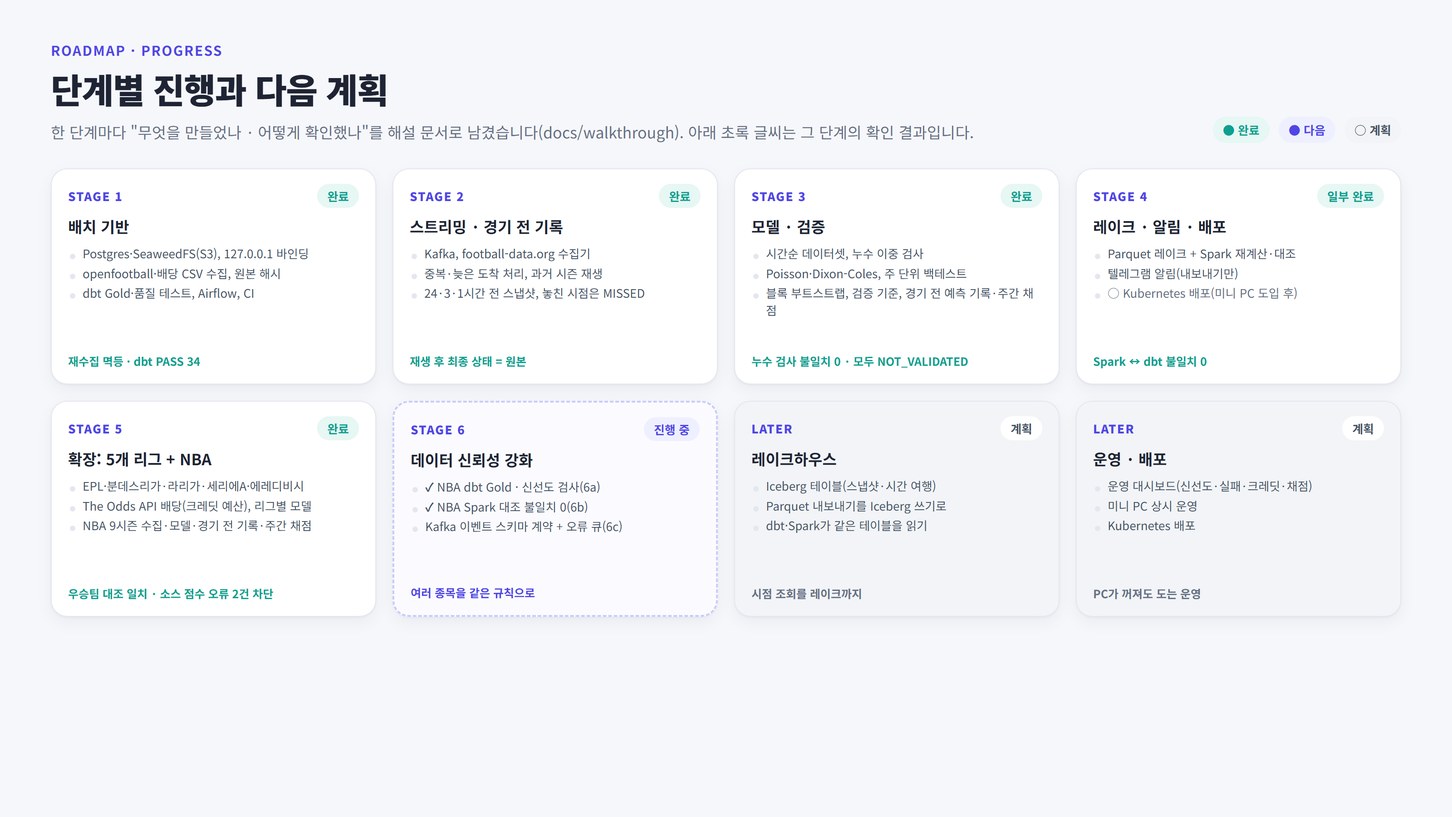
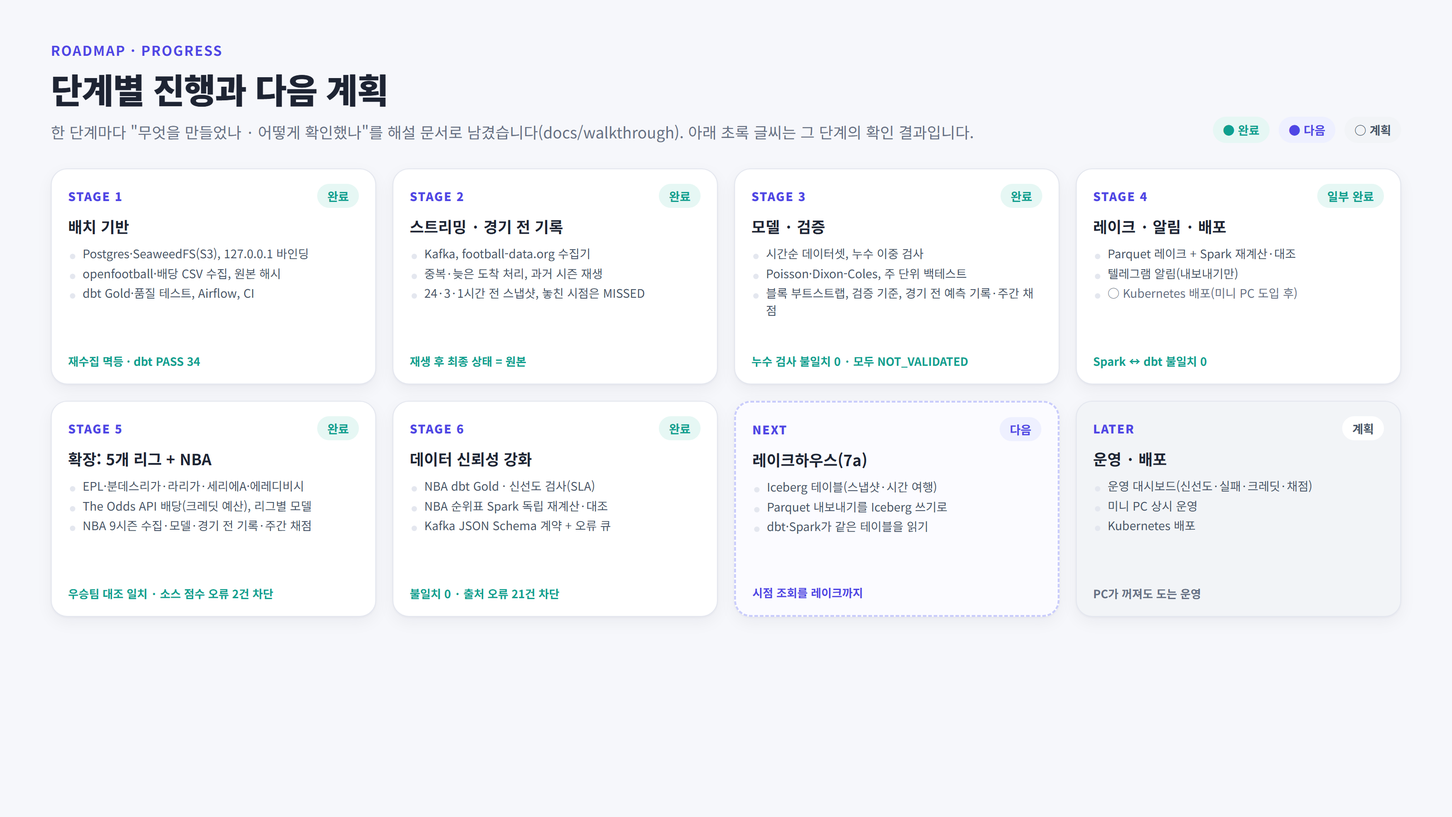
6c 해설, 면접 문서·그림 갱신

diff --git a/docs/diagrams/01_overview.html b/docs/diagrams/01_overview.html
@@ -68,12 +68,12 @@
       <div class="card tech">
         <div class="tech-row"><div class="name">SeaweedFS (S3)<span>Bronze · 원본</span></div><div class="why">받은 원본을 <b>내용 해시 경로</b>로 바이트 그대로 보존 → 언제든 다시 처리. 표준 S3 API(boto3)</div></div>
         <div class="tech-row"><div class="name">PostgreSQL<span>Silver · 버전</span></div><div class="why">버전 테이블 + 트리거로 <b>수정·삭제를 DB가 차단</b>, <span class="code">*_known_at(as_of)</span> 함수로 그때의 데이터를 조회</div></div>
-        <div class="tech-row"><div class="name">Kafka<span>스트리밍</span></div><div class="why">경기 갱신은 원래 <b>시간순 이벤트</b>. 중복·늦은 도착을 거르고 과거 시즌을 재생해 검증</div></div>
+        <div class="tech-row"><div class="name">Kafka<span>스트리밍</span></div><div class="why">경기 갱신은 원래 <b>시간순 이벤트</b>. JSON Schema 계약으로 깨진 메시지는 오류 큐로, 중복·늦은 도착을 거르고 과거 시즌을 재생해 검증</div></div>
         <div class="tech-row"><div class="name">dbt<span>Gold · 품질 테스트</span></div><div class="why">순위표·시점 특징·배당 확률을 코드로 정의, <b>품질 테스트 38개</b>, 과거 기준 시각으로 재계산</div></div>
         <div class="tech-row"><div class="name">Spark · Parquet<span>레이크 · 대조</span></div><div class="why">Gold를 Parquet 레이크로 내보내고 Spark로 <b>독립 재계산해 dbt와 행 단위 대조</b>(불일치 0)</div></div>
         <div class="tech-row"><div class="name">Airflow<span>오케스트레이션</span></div><div class="why">매일 수집·변환, <b>30분마다 경기 전 스냅샷</b>, 주간 채점, 실패 알림. API 크레딧 예산 안에서</div></div>
         <div class="tech-row"><div class="name">numpy<span>모델 · 평가</span></div><div class="why">Poisson·Dixon-Coles·점수 차 등급·Elo, <b>시간순 백테스트 + 블록 부트스트랩</b> 검증 기준</div></div>
-        <div class="tech-row"><div class="name">Docker · CI<span>재현 · 검증</span></div><div class="why">Compose로 전체 스택 재현, GitHub Actions에서 <b>테스트 202개 + Spark + dbt</b></div></div>
+        <div class="tech-row"><div class="name">Docker · CI<span>재현 · 검증</span></div><div class="why">Compose로 전체 스택 재현, GitHub Actions에서 <b>테스트 215개 + Spark + dbt</b></div></div>
       </div>
     </div>
 
@@ -85,7 +85,7 @@
           <div class="num"><b>23,693</b><span>경기(축구 12,264 · NBA 11,429)</span></div>
           <div class="num"><b>17.8만</b><span>배당 버전(해외 북메이커)</span></div>
           <div class="num"><b>60만</b><span>시간순 백테스트 예측</span></div>
-          <div class="num"><b>202</b><span>자동 테스트(CI 포함)</span></div>
+          <div class="num"><b>215</b><span>자동 테스트(CI 포함)</span></div>
         </div>
         <div class="item"><b>정직한 결론</b><span>모델은 단순 비율보다 확실히 낫지만 시장 배당은 못 이김 → 모두 NOT_VALIDATED, 확률 비공개(WITHHELD)</span></div>
         <div class="item"><b>매주 자동으로</b><span>경기 전에 얼린 예측을 같은 시점의 시장 확률과 나란히 채점, 텔레그램으로 요약</span></div>

diff --git a/docs/diagrams/04_roadmap.html b/docs/diagrams/04_roadmap.html
@@ -60,15 +60,15 @@
       <ul><li>EPL·분데스리가·라리가·세리에A·에레디비시</li><li>The Odds API 배당(크레딧 예산), 리그별 모델</li><li>NBA 9시즌 수집·모델·경기 전 기록·주간 채점</li></ul>
       <div class="proof">우승팀 대조 일치 · 소스 점수 오류 2건 차단</div>
     </div>
-    <div class="card stage next">
-      <div class="top"><span class="no">STAGE 6</span><span class="chip next">진행 중</span></div>
+    <div class="card stage">
+      <div class="top"><span class="no">STAGE 6</span><span class="chip done">완료</span></div>
       <h3>데이터 신뢰성 강화</h3>
-      <ul><li><b>✓</b> NBA dbt Gold · 신선도 검사(6a)</li><li><b>✓</b> NBA Spark 대조 불일치 0(6b)</li><li>Kafka 이벤트 스키마 계약 + 오류 큐(6c)</li></ul>
-      <div class="proof">여러 종목을 같은 규칙으로</div>
+      <ul><li>NBA dbt Gold · 신선도 검사(SLA)</li><li>NBA 순위표 Spark 독립 재계산·대조</li><li>Kafka JSON Schema 계약 + 오류 큐</li></ul>
+      <div class="proof">불일치 0 · 출처 오류 21건 차단</div>
     </div>
-    <div class="card stage plan">
-      <div class="top"><span class="no">LATER</span><span class="chip">계획</span></div>
-      <h3>레이크하우스</h3>
+    <div class="card stage next">
+      <div class="top"><span class="no">NEXT</span><span class="chip next">다음</span></div>
+      <h3>레이크하우스(7a)</h3>
       <ul><li>Iceberg 테이블(스냅샷·시간 여행)</li><li>Parquet 내보내기를 Iceberg 쓰기로</li><li>dbt·Spark가 같은 테이블을 읽기</li></ul>
       <div class="proof">시점 조회를 레이크까지</div>
     </div>

diff --git a/docs/diagrams/02_data_flow.html b/docs/diagrams/02_data_flow.html
@@ -54,7 +54,7 @@
     <div class="col">
       <div class="label">Ingest</div>
       <div class="card box"><h3>배치 수집기</h3><p>요청 한도·429·크레딧, 키는 오류 메시지에서 제거</p></div>
-      <div class="card box"><h3>Kafka</h3><p>경기 갱신 이벤트, 중복·늦은 도착 거부, 과거 시즌 재생</p></div>
+      <div class="card box"><h3>Kafka</h3><p>경기 갱신 이벤트, JSON Schema 계약 검사(위반은 오류 큐), 중복·늦은 도착 거부, 과거 시즌 재생</p></div>
       <div class="card box"><h3>품질 검사</h3><p>대조표로만 팀 연결, 문제는 버리지 않고 기록</p><span class="n">팀 별칭 461개</span></div>
     </div>
     <div class="col">
@@ -83,7 +83,7 @@
 
   <div class="bars">
     <div class="card bar"><div class="em">⚙</div><div><b>Airflow DAG 4개</b><span>매일 축구 수집 → dbt → Spark 대조 · 매일 NBA 수집 · 30분마다 배당·스냅샷·알림 · 매주 채점</span></div></div>
-    <div class="card bar"><div class="em">🐳</div><div><b>Docker Compose + GitHub Actions</b><span>모든 포트 127.0.0.1 · 푸시마다 테스트 202개, Spark 컨테이너 테스트, 수집→dbt 종단 실행</span></div></div>
+    <div class="card bar"><div class="em">🐳</div><div><b>Docker Compose + GitHub Actions</b><span>모든 포트 127.0.0.1 · 푸시마다 테스트 215개, Spark 컨테이너 테스트, 수집→dbt 종단 실행</span></div></div>
   </div>
   <div class="rule"><span>모든 시각은 UTC로 저장, 화면은 한국 시각</span><span>키·비밀번호는 .env에만(Git 제외)</span><span>검증 전 모델의 확률은 보여 주지 않음</span></div>
 </body>

diff --git a/docs/walkthrough/6c_kafka_contracts.md b/docs/walkthrough/6c_kafka_contracts.md
@@ -1,0 +1,90 @@
+# 6c. Kafka 이벤트 스키마 계약과 오류 큐(dead letter)
+
+작성: 2026-10-24. 상태: **완료.** 6단계(데이터 신뢰성 강화)의 마지막 단계입니다.
+
+## 한 줄 요약
+
+Kafka로 오가는 경기 이벤트의 모양을 **JSON Schema 파일로 계약**했습니다. 생산자(football-data.org 수집기)는 보내기 전에, 소비자는 받은 뒤에 **같은 파일로** 검사합니다. 계약을 어긴 메시지는 Silver에 들어가지 않고, 사유를 남긴 뒤 원본 바이트 그대로 **오류 큐(`<토픽>.dlq`)**로 옮깁니다. 팀 대조표에 없어서 거부된 메시지는 대조표를 고친 뒤 오류 큐에서 다시 보낼 수 있습니다.
+
+계약을 만들고 실제 Bronze 원본 29,428경기에 돌려 보자 **football-data.org가 상태 칸에 날짜를 보낸 경기 21건**이 나왔습니다. 그중 6건은 이미 그 값 그대로 Silver에 들어가 있었습니다. 이제는 들어오는 길에서 막힙니다.
+
+## 흐름
+
+```text
+football-data.org 수집기
+  └ 경기마다 이벤트 생성 → contracts.check(생산자 쪽)
+        ├ 통과 → fdorg.matches.v1
+        └ 위반 → 보내지 않음, silver.quality_issues(CONTRACT_VIOLATION, 경로·사유)
+
+match_consumer (묶음 하나 = DB 트랜잭션 하나)
+  └ events.decode → contracts.check(소비자 쪽: 다른 생산자·재생기·사람이 넣은 메시지도 검사)
+        ├ 통과 → 팀 대조 → Silver 버전(중복·늦은 도착 규칙은 그대로)
+        └ 위반·UNMAPPED_TEAM → silver.stream_rejections + 원본을 fdorg.matches.v1.dlq로(헤더에 사유·원래 위치·detail)
+  └ 오류 큐 flush 확인 → DB 커밋 → 오프셋 커밋
+
+python -m pipelines.streaming.dlq summary   사유별 건수·예(원래 위치가 같으면 한 건)
+python -m pipelines.streaming.dlq replay    대조표를 고친 뒤 UNMAPPED_TEAM 원본을 원래 토픽으로 다시
+```
+
+## 계약 내용
+
+| 파일 | 규칙 | 바꿀 때 |
+|---|---|---|
+| `schemas/envelope.v1.json`(겉봉투) | 8개 필드 필수, 모르는 필드 거부, `event_id`는 64자리 16진수, 시각은 **시간대가 있는** ISO 8601만 | 필드를 더하거나 빼면 `schema_version`을 올린다 |
+| `schemas/match_snapshot.v1.json`(내용) | 경기 ID·리그 코드(`en.1` 형식)·시즌(`2025-26`)·상태(허용 목록 11개)·팀 ID 필수, 점수는 0 이상 정수 또는 null, **끝난 경기는 점수 필수** | 선택 필드 추가는 v1 안에서 허용(소비자는 무시). 필수·타입·허용값을 바꾸면 v2 |
+| `contracts.py` | `(event_type, schema_version)` → 스키마 등록표. 내용으로 `event_id`를 다시 계산해 맞춰 봄 | 새 이벤트 종류는 등록표에 넣어야 받는다 |
+
+거부 사유: `INVALID_JSON`, `SCHEMA_VIOLATION`(어느 경로가 왜), `UNSUPPORTED_SCHEMA_VERSION`, `UNKNOWN_EVENT_TYPE`, `EVENT_ID_MISMATCH`. 이 다섯 개와 `UNMAPPED_TEAM`이 오류 큐로 갑니다. `STALE_EVENT`(늦게 온 옛 정보)는 규칙대로 버린 정상 동작이라 오류 큐에 넣지 않습니다.
+
+## 바꾼 것
+
+| 변경 | 위치 | 이유 |
+|---|---|---|
+| 계약 파일·검사기 | `pipelines/streaming/schemas/`, `contracts.py` | 형식 규칙을 코드 곳곳의 `KeyError` 처리가 아니라 한 파일에. 생산자·소비자가 같은 규칙 |
+| decode가 계약 검사 | `events.decode` | 소비자는 검사를 통과한 이벤트만 본다. 필수 필드 존재를 따로 확인하던 코드(`MISSING_PAYLOAD_FIELD`)를 지움 |
+| 생산자 쪽 검사 | `football_data_org.poll_once` | 깨진 이벤트를 토픽에 넣지 않는다. 어긴 경기만 빼고 나머지는 정상 발행, 실행 통계에 `contract_violations` |
+| 오류 큐 | `match_consumer.run`, `kafka_io.dlq_topic` | 거부한 원본을 증거로 남기고 다시 보낼 수 있게. 헤더: `dlq.reason`·`dlq.source_topic/partition/offset`·`dlq.detail`·`dlq.failed_at` |
+| 오류 큐 도구 | `pipelines/streaming/dlq.py` | 소비자 그룹 없이 파티션을 직접 지정해 읽음(커밋하지 않아 몇 번 읽어도 같음) |
+| 의존성 | `jsonschema 4.26.0`(PC·CI·수집기 이미지) | Airflow는 스트리밍 코드를 쓰지 않아 넣지 않음 |
+
+## 사용한 기술
+
+| 기술 | 어디에 | 어떻게 썼나 |
+|---|---|---|
+| JSON Schema 2020-12 + `jsonschema`(`Draft202012Validator`, `best_match`) | `contracts.py` | 스키마 파일 자체도 `check_schema`로 검사. 여러 오류 중 가장 관련 있는 하나의 경로·메시지를 사유로 |
+| 조건부 스키마(`if`/`then`) | `match_snapshot.v1.json` | "상태가 FINISHED면 점수가 정수" 같은 필드 간 규칙 |
+| 스키마 버전·호환 규칙 | 겉봉투 엄격 / 내용은 추가만 허용 | 생산자가 선택 필드를 더해도 소비자가 깨지지 않고, 의미가 바뀌는 변경은 버전을 올려 명시적으로 거부되게 |
+| Kafka 오류 큐(dead letter topic) + 메시지 헤더 | `<토픽>.dlq`, `kafka_io.publish(headers=…)` | 값은 원본 바이트 그대로, 맥락은 헤더에 |
+| 순서 보장: 오류 큐 flush → DB 커밋 → 오프셋 커밋 | `match_consumer.run` | 중간에 죽으면 묶음 전체를 다시 받는다. 거부 메시지가 사라지지 않음(오류 큐는 최소 한 번) |
+| `Consumer.assign` + `get_watermark_offsets` | `dlq.read_all` | 그룹 오프셋을 건드리지 않고 토픽 전체를 처음부터 끝까지 |
+| 내용 해시 재계산 | `events.event_id` | 생산자와 소비자가 같은 함수로 계산해 맞춰 봄 |
+
+## 확인 결과(2026-10-24)
+
+| 확인 | 결과 |
+|---|---|
+| 실제 Bronze 원본 79개 파일, 29,428경기에 계약 적용 | 위반 21건, 모두 `/payload/status`(라리가, 상태 칸에 날짜). 나머지는 통과 |
+| 이미 Silver에 들어간 같은 값 | 6개 버전(수정 불가 기록이라 그대로 두고 [장애 기록](../interview/error_handling.md) 31번으로) |
+| 계약 단위 테스트(`tests/test_contracts.py`) | 11개: 실제 API 샘플 통과, 위반 경로 6가지, 필수 필드 누락, 겉봉투 엄격·버전·종류, 선택 필드 추가 허용과 내용 변조(`EVENT_ID_MISMATCH`) |
+| 통합 테스트(Kafka·Postgres) | 깨진 JSON·대조표 밖 팀·상태 칸에 날짜 → 3건 오류 큐, 원본 바이트 그대로, 다시 처리해도 요약은 3건 / 대조표를 고치고 replay → 같은 그룹이 그 메시지만 새로 읽어 Silver에 반영 / 수집기가 계약 위반 경기는 보내지 않고 품질 문제로 기록 |
+| 상시 컨테이너 | 수집기·소비자 이미지를 다시 만들어 재시작, 실행 통계에 `contract_violations` 표시, 오류 큐 토픽 2개 생성 |
+
+## 면접에서 나올 만한 질문
+
+**Q. 스키마 레지스트리(Confluent Schema Registry)를 왜 안 썼나요?**
+레지스트리는 스키마를 중앙에서 버전 관리하고 생산자·소비자가 ID로 받아 쓰게 해 줍니다. 생산자가 하나, 이벤트 종류가 하나인 지금은 스키마 파일을 코드와 같은 저장소에 두고 같은 커밋으로 바꾸는 것이 더 단순하고 리뷰하기 쉽습니다. 계약의 핵심(엄격한 겉봉투, 버전, 호환 규칙, 양쪽 검사)은 같습니다. 팀이나 생산자가 늘어나 배포가 따로 움직이면 레지스트리로 옮길 이유가 생깁니다.
+
+**Q. 생산자가 이미 검사하는데 소비자가 또 검사하는 이유는?**
+토픽에 쓸 수 있는 것은 그 수집기만이 아닙니다. 과거 시즌 재생기, 사람이 손으로 넣은 메시지, 앞으로 생길 다른 생산자가 있습니다. 소비자 검사는 Silver를 지키는 마지막 문이고, 생산자 검사는 깨진 이벤트가 토픽에 쌓이지 않게 하는 첫 문입니다.
+
+**Q. 오류 큐 메시지가 중복될 수 있지 않나요?**
+네. 토픽을 처음부터 다시 처리하면 같은 메시지가 오류 큐에 다시 들어갑니다. 정확히 한 번을 만들려면 Kafka 트랜잭션으로 오류 큐 쓰기와 오프셋을 묶어야 하는데, 최종 저장소가 Postgres라 그것만으로는 끝나지 않습니다. 대신 원래 위치(토픽·파티션·오프셋)를 헤더에 넣어 읽는 쪽이 중복을 접고, 다시 보내도 소비자가 event_id로 거릅니다.
+
+**Q. 상태 칸에 날짜가 온 경기는 SCHEDULED로 고쳐 넣으면 되지 않나요?**
+그럴듯하지만 추측입니다. 그 값이 "연기 후 새 일정"인지 "아직 정해지지 않음"인지 출처가 말해 주지 않습니다. 이 프로젝트는 모르는 값을 만들어 넣지 않는다는 원칙이라, 막고 기록한 뒤 출처가 정상 값을 다시 보낼 때 반영합니다.
+
+## 한계
+
+- **생산자 쪽 검사는 football-data.org 수집기만입니다.** 과거 시즌 재생기는 검증 도구라 소비자 쪽 검사에 맡깁니다.
+- **이미 Silver에 들어간 6개 버전은 고치지 않았습니다.** 수정 불가 기록이고, 그 경기의 최신 상태는 다음 정상 갱신으로 덮입니다.
+- **오류 큐는 최소 한 번 저장입니다**(위 질문). 보관 기간은 Kafka 기본값(7일)입니다. 그보다 오래 남길 증거는 `silver.stream_rejections`에 있습니다(원본 앞 500바이트와 detail).

diff --git a/docs/interview/error_handling.md b/docs/interview/error_handling.md
@@ -78,16 +78,20 @@
 
 | 결과·코드 | 상황 | 처리 |
 |---|---|---|
-| `INVALID_JSON` | 메시지가 JSON이 아니거나 UTF-8이 아님 | `silver.stream_rejections`에 원본 앞부분과 함께 기록, 다음 메시지로 |
-| `MISSING_FIELDS` | 이벤트 겉봉투 필수 필드 누락 | 기록 후 다음으로 |
-| `UNSUPPORTED_SCHEMA_VERSION` | 모르는 형식 버전 | 기록 후 다음으로. 조용히 잘못 해석하지 않음 |
-| `MISSING_PAYLOAD_FIELD` | 내용에 리그·시즌·팀·경기 ID가 없음 | 기록 후 다음으로 |
-| `UNMAPPED_TEAM` | 팀 ID가 대조표에 없음 | 기록 후 다음으로 |
+| `INVALID_JSON` | 메시지가 JSON이 아니거나 UTF-8이 아님 | `silver.stream_rejections`에 원본 앞부분과 함께 기록, 원본은 오류 큐(`<토픽>.dlq`)로, 다음 메시지로 |
+| `SCHEMA_VIOLATION` | JSON Schema 계약 위반(필수 필드 누락, 타입, 허용값, 시간대 없는 시각, 끝난 경기인데 점수 없음, 겉봉투의 모르는 필드). detail에 경로(`/payload/status`)와 이유 | 기록 + 오류 큐 |
+| `UNSUPPORTED_SCHEMA_VERSION` | 모르는 형식 버전 | 기록 + 오류 큐. 조용히 잘못 해석하지 않음 |
+| `UNKNOWN_EVENT_TYPE` | 등록되지 않은 이벤트 종류 | 기록 + 오류 큐 |
+| `EVENT_ID_MISMATCH` | 내용으로 다시 계산한 해시가 event_id와 다름(내용이 바뀌었거나 생산자 버그) | 기록 + 오류 큐 |
+| `UNMAPPED_TEAM` | 팀 ID가 대조표에 없음 | 기록 + 오류 큐. 대조표를 고친 뒤 `python -m pipelines.streaming.dlq replay`로 다시 보낼 수 있음 |
 | `STALE_EVENT` | 출처의 갱신 시각이 이미 저장된 최신 버전보다 이름(늦게 도착한 옛 정보) | 저장하지 않고 기록. 최신 값을 덮지 않음 |
 | `DUPLICATE` | 직전 버전과 내용이 같거나, 이미 반영한 event_id | 아무것도 하지 않음(정상이라 기록도 안 함) |
 | 묶음 처리 중 DB 오류 | 묶음 전체 롤백, 오프셋 커밋 안 함 | 다시 시작하면 같은 묶음부터. 반쯤 저장된 상태가 없음 |
 | Kafka 메시지 오류 | 예외를 올려 묶음 롤백 | 위와 같음 |
+| 오류 큐 저장 실패 | 오류 큐 생산자를 flush한 뒤에야 DB·오프셋을 커밋. 실패하면 예외 → 묶음 롤백 | 거부한 메시지가 기록·오류 큐 어디에도 없이 사라지지 않음 |
+| 생산자 쪽 계약 위반(`football_data_org.py`) | 보내기 전에 같은 계약으로 검사, 어긴 경기는 보내지 않고 `silver.quality_issues`(`CONTRACT_VIOLATION`, 경로·사유) | 깨진 이벤트가 토픽에 들어가지 않음. 나머지 경기는 정상 발행 |
 | 같은 메시지 재처리 | 거부 기록은 `UNIQUE(topic, partition, offset, reason)`로 한 번만 | 재처리해도 기록이 불어나지 않음 |
+| 같은 메시지를 오류 큐에 두 번 | 토픽을 처음부터 다시 처리하면 오류 큐에도 다시 들어감(최소 한 번 저장) | `dlq summary`·`replay`가 원래 위치(토픽·파티션·오프셋)로 중복을 접음 |
 
 ### 과거 시즌 재생기 (`replay.py`)
 
@@ -201,6 +205,7 @@
 | 28 | NBA 경기 전 예측 테스트에서 학습 경기가 220이 아니라 180 | 가상 경기 220개 중 40개가 예측 기준 시각보다 뒤 날짜였음(코드가 미래 경기를 학습에서 뺀 것이 맞음) | 가상 경기 시작일을 앞당김. 덕분에 "기준 시각 뒤 경기는 결과가 있어도 쓰지 않는다"가 실제로 동작함을 확인 | 테스트가 실패하면 코드보다 먼저 테스트 자료가 현실에서 가능한지 본다 |
 | 29 | 통합 테스트가 전부 건너뛰어지고 PC에서 S3·Kafka 접속 실패 | Windows(Hyper-V)가 재시작 때 58965~59164번 포트를 예약 범위로 잡아, 설정된 포트(59000·59092)가 열리지 않음. 컨테이너 내부 연결은 정상이라 Airflow는 계속 돎 | 시스템 설정은 건드리지 않고 프로젝트의 PC용 포트를 49152 아래로(S3 45900, Kafka 45992), 두 컨테이너만 재생성 | "건너뜀"이 늘면 실패로 본다. 포트는 설정과 실제 연결을 따로 확인한다(`netsh … excludedportrange`) |
 | 30 | 어제 통과한 NBA 배당 테스트가 오늘 실패 | 수신 시각은 실행 순간의 실제 시계로 기록되는데, 테스트가 고정된 날짜(10/22 21:00)로 시점 조회를 함. 날짜가 바뀌자 그 배당이 "아직 모르는 것"이 됨(코드는 맞음) | 시점 조회 대신 버전 기록(값·발표 시각 순서)을 확인하고, 최신 조회만 `now()`로 | 실제 시계를 쓰는 값과 고정 날짜를 한 테스트에서 비교하지 않는다 |
+| 31 | football-data.org가 일부 라리가 경기의 상태 칸에 상태 대신 날짜(`2026-10-21 18:00:00Z`)를 보냄. 이미 Silver에 6건이 그 값으로 들어가 있었음(6c 계약을 실제 Bronze 원본 29,428경기에 돌려 보다 발견) | 출처가 문서에 없는 값을 보냄. 그때까지는 상태 값을 검사하지 않고 그대로 저장 | 계약에 허용 상태 목록을 두고 생산자·소비자가 같은 파일로 검사. 이제 그런 경기는 보내지 않고 품질 문제로 남김. 상태를 추측해(예: SCHEDULED) 고쳐 넣지 않음. 이미 들어간 6건은 수정 불가 버전이라 그대로 두고 기록 | 형식 검사를 "들어오는 길"에 두지 않으면 출처의 이상한 값이 조용히 쌓인다. 계약을 만들면 먼저 과거 원본 전체에 돌려 본다 |
 
 ## 면접에서 나올 만한 질문
 

diff --git a/docs/portfolio.md b/docs/portfolio.md
@@ -42,6 +42,7 @@
 | 미래 정보 누수 | `published_at`·`received_at`·`as_of` 세 시각, `silver.*_known_at(as_of)` 함수, 학습 경기는 "시작 + N시간 ≤ 기준 시각"을 DB CHECK로 강제 | dbt와 Python 두 구현으로 시점 특징을 따로 계산해 대조: 11,416경기 불일치 0 |
 | 값이 바뀜 | Bronze(원본 해시 보존) + Silver 버전 테이블(불변 트리거) | 같은 원본 재수집 시 버전 0개 증가, 원본이 A→B→A로 돌아와도 최신 버전 복구 |
 | 실시간 갱신·늦은 도착 | Kafka, DB 커밋 후 오프셋 커밋, 오래된 이벤트 거부 | 과거 시즌을 중복·늦은 도착을 섞어 재생 → 최종 상태가 원본과 일치 |
+| 깨진 메시지 | JSON Schema 이벤트 계약(생산자·소비자 양쪽 검사, 버전·호환 규칙), 위반 원본은 오류 큐(dead letter)로, 고친 뒤 다시 보내기 | 실제 원본 29,428경기에 계약을 돌려 출처가 상태 칸에 날짜를 보낸 21건 발견, 이제 Silver에 못 들어감 |
 | 변환 결과를 믿을 수 있나 | dbt 품질 테스트 38개 + Spark로 독립 재계산(축구 특징, NBA 순위표) + 수집 신선도 검사 | Spark ↔ dbt 축구 12,264경기 × 18열, NBA 270행 × 9열 불일치 0 |
 | 소스끼리 어긋남 | 검토한 팀 대조표(461개), 시작 시각 허용 범위, 종목 규칙 검사(농구 무승부 없음) | NBA 4차 연장 경기를 동점으로 기록한 소스 오류 2건을 저장 전에 차단, 7시즌 우승팀 공개 기록과 일치 |
 | 무료 API 한도 | 시점 기반 수집(경기 24·1시간 전), NBA 하루 1번, 핸디캡·언더오버는 요청할 때만 | 월 약 330 / 500크레딧 예상, 크레딧 부족 시 자동 축소 |
@@ -56,10 +57,10 @@
 | 경기 | 23,693(축구 12,264 · NBA 11,429) |
 | 배당 버전 | 약 17.8만(해외 북메이커) |
 | 시간순 백테스트 예측 | 약 60만(실행 589개) |
-| 자동 테스트 | 202개(GitHub Actions: 전체 테스트 + Spark 컨테이너 + 수집→dbt 종단) |
+| 자동 테스트 | 215개(GitHub Actions: 전체 테스트 + Spark 컨테이너 + 수집→dbt 종단) |
 | 스키마 마이그레이션 | 16개 |
 | Airflow DAG | 4개(매일 수집·변환·대조, 30분마다 경기 전 기록, 매주 채점) |
-| 해설 문서 | 단계별 24편, 실제로 겪은 문제 기록 30건 |
+| 해설 문서 | 단계별 25편, 실제로 겪은 문제 기록 31건 |
 
 ## 4. 정직한 결론
 
@@ -81,7 +82,7 @@
 | 소스가 4차 연장 경기를 동점으로 기록 | 3차 연장 끝 점수를 최종으로 저장 | 종목 규칙 검사(무승부 없음)로 저장 전에 차단 | 도메인 규칙을 데이터 검사로 만든다 |
 | 시점 조회 테스트가 연달아 실패 | 가짜 자료의 수신 시각이 실제 현재보다 미래 | 테스트 자료를 "언제 알았나"까지 현실처럼 | 시점 코드의 테스트는 시각까지 모델링한다 |
 
-전체 30건은 [예외 처리 기록](interview/error_handling.md)에 있습니다.
+전체 31건은 [예외 처리 기록](interview/error_handling.md)에 있습니다.
 
 ## 6. 설계 결정과 대안
 
@@ -89,7 +90,7 @@
 |---|---|---|
 | Silver 저장소 | PostgreSQL 버전 테이블 + 트리거 | BigQuery·Snowflake: 이 규모(수십만 행)에서 이점 없이 비용·외부 의존. Delta·Iceberg: 발표·수신 두 시각 축이 필요해 직접 설계(레이크 쪽은 다음 계획) |
 | 원본 저장 | SeaweedFS(S3 API) | MinIO는 이미지 배포 중단. 코드가 boto3만 써서 AWS S3로 그대로 이전 가능 |
-| 실시간 | Kafka(경기 갱신만) | 하루 몇 번 받는 배당은 배치로 충분해 Kafka를 거치지 않음 |
+| 실시간 | Kafka(경기 갱신만) + 저장소 안 JSON Schema 계약 | 하루 몇 번 받는 배당은 배치로 충분해 Kafka를 거치지 않음. 스키마 레지스트리는 생산자 하나·이벤트 종류 하나인 지금 과함 |
 | 종목 확장 | NBA는 별도 경기 테이블 | 축구 키(리그·시즌·홈·원정)는 같은 대진이 여러 번 열리는 NBA에 맞지 않음. 규칙은 같게, 정체성만 종목에 맞춤 |
 | API 예산 | 시점 기반 수집 + 요청형 수집 | 유료 요금제·계정 여러 개는 쓰지 않음(약관) |
 | 표시 | 검증 기준을 넘기 전에는 확률 비공개 | "그럴듯한 숫자"를 보여 주면 판단을 왜곡 |
@@ -104,9 +105,8 @@
 
 ![로드맵](images/04_roadmap.png)
 
-1. Kafka 이벤트 스키마 계약과 오류 큐(dead letter)(6c)
-2. Iceberg 레이크하우스(스냅샷·시간 여행)로 시점 조회를 레이크까지
-3. 운영 대시보드(신선도·실패·크레딧·채점), Kubernetes 배포
+1. Iceberg 레이크하우스(스냅샷·시간 여행)로 시점 조회를 레이크까지(7a)
+2. 운영 대시보드(신선도·실패·크레딧·채점·오류 큐), Kubernetes 배포
 
 ## 링크
 

diff --git a/docs/interview/tech_stack.md b/docs/interview/tech_stack.md
@@ -10,6 +10,7 @@
 | 원본 저장(Bronze) | SeaweedFS(S3 호환) + boto3 | 4.48 / 1.43.115 | 사용 중 |
 | 정제·분석 DB(Silver·Gold) | PostgreSQL + psycopg | 16.4 / 3.3.6 | 사용 중 |
 | 스트리밍 | Apache Kafka(KRaft) + confluent-kafka | 4.3.1 / 2.15.1 | 사용 중 |
+| 이벤트 계약 | JSON Schema 2020-12 + jsonschema | 4.26.0 | 사용 중(6c) |
 | 변환·품질 테스트 | dbt-core + dbt-postgres | 1.12.6 / 1.11.0 | 사용 중 |
 | 모델링 | numpy(Poisson·Dixon-Coles 직접 구현, NBA는 가중 ridge 점수 차 등급·Elo) | 2.5.4 | 사용 중(3b, NBA 5d-c) |
 | 오케스트레이션 | Apache Airflow(standalone, LocalExecutor) | 3.3.2 | 사용 중 |
@@ -89,7 +90,8 @@ football-data.org ── 수집기 → Kafka → 소비자 ──┘
   - 힙 512MB로 제한: 노트북에서 다른 서비스와 함께 돌리기 위해.
 - **왜 Kafka 트랜잭션(exactly-once)을 안 썼나:** Kafka의 exactly-once는 Kafka 안(읽기→쓰기)에서만 보장된다. 이 프로젝트의 최종 저장소는 Postgres라, 어차피 Postgres 쪽에서 중복을 걸러야 한다. 그래서 "최소 한 번 + 멱등 저장"이 더 단순하고 정확하다.
 - **대안:** Redpanda(Kafka 호환, 가볍다)도 가능했지만, 면접에서 설명할 표준 구성과 공식 이미지를 택했다. 클라이언트는 kafka-python 대신 librdkafka 기반으로 멱등 생산자를 제대로 지원하는 confluent-kafka를 썼다.
-- **쓰는 곳:** `pipelines/streaming/`(events, kafka_io, match_consumer, replay), `infra/docker-compose.yml`.
+- **이벤트 계약과 오류 큐(6c):** 메시지 모양을 JSON Schema 파일(`pipelines/streaming/schemas/`)로 정하고 생산자·소비자가 같은 파일로 검사한다. 겉봉투는 엄격(모르는 필드 거부), 내용은 선택 필드 추가만 같은 버전에서 허용, 의미가 바뀌면 버전을 올린다. 위반 원본은 `<토픽>.dlq`로 옮기고(헤더에 사유·원래 위치), 오류 큐 flush를 확인한 뒤에 DB·오프셋을 커밋한다. Confluent Schema Registry는 생산자 하나·이벤트 종류 하나인 지금은 과해서, 스키마를 코드와 같은 커밋으로 관리한다.
+- **쓰는 곳:** `pipelines/streaming/`(events, contracts, schemas, kafka_io, match_consumer, dlq, replay), `infra/docker-compose.yml`.
 
 ### dbt-core 1.12.6 + dbt-postgres 1.11.0 (Gold)
 

diff --git a/docs/de_platform_roadmap.md b/docs/de_platform_roadmap.md
@@ -72,7 +72,8 @@ Airflow가 전체 작업 순서와 재시도를 관리합니다.
 | 5e. 주간 보고서 NBA ✅ | 주간 채점·텔레그램 요약에 NBA 절: 경기 전 확률을 결과로 채점하고 같은 시점 해외 시장 확률과 비교 | 결과 전 채점 0, 결과 후 시장 비교 포함 | 없음 |
 | 6a. NBA Gold·신선도 ✅ | dbt NBA 모델 4개·테스트 12개, 수집 기록 기준 신선도 검사(SLA)를 매일 DAG에, Windows 예약 포트 회피(S3 45900·Kafka 45992) | dbt PASS 50, 신선도 실패·회복 테스트 | 없음 |
 | 6b. NBA Spark 대조 ✅ | NBA 끝난 경기 원자료를 Parquet로 내보내 Spark로 순위표를 처음부터 다시 계산, dbt와 칸 단위 대조(매일 DAG) | 270행 × 9열 불일치 0 | 없음 |
-| 6c. Kafka 스키마 계약 | 이벤트 형식을 JSON Schema로, 형식이 틀린 메시지는 오류 큐(dead letter)로 | 깨진 메시지가 Silver에 들어가지 않음 | 없음 |
+| 6c. Kafka 스키마 계약 ✅ | 이벤트 형식을 JSON Schema로(겉봉투 엄격, 내용은 추가만 허용, event_id 재계산), 생산자·소비자 양쪽 검사, 위반·대조표 밖 팀은 오류 큐(dead letter)로, 오류 큐 요약·다시 보내기 도구 | 깨진 메시지가 Silver에 들어가지 않음, 실제 원본에서 출처 오류 21건 발견 | 없음 |
+| 7a. Iceberg 레이크하우스 | Parquet 내보내기를 Iceberg 테이블로(스냅샷·시간 여행), Spark·pyarrow가 같은 테이블을 읽기 | 과거 스냅샷 조회 결과가 dbt 시점 조회와 같음 | 없음 |
 
 3단계 검증을 통과하기 전에는 확률을 표시하지 않습니다(WITHHELD).
 

diff --git a/docs/interview/validation.md b/docs/interview/validation.md
@@ -8,7 +8,7 @@
 
 | 층 | 질문 | 방법 | 결과(2026-10-21) |
 |---|---|---|---|
-| 1. 데이터 형식 | 들어온 값이 형식에 맞나 | 수집 단계 검사(이유 코드와 함께 걸러 냄) + DB CHECK·UNIQUE·수정 차단 트리거 + dbt 테스트 38개 + 수집 신선도 검사(6a) | dbt PASS=34(모델 8 + 테스트 26), 걸러 낸 레코드 2건 + 경기 기록 원본 오류 1건(3g) |
+| 1. 데이터 형식 | 들어온 값이 형식에 맞나 | 수집 단계 검사(이유 코드와 함께 걸러 냄) + Kafka 이벤트 JSON Schema 계약(생산자·소비자 양쪽, 위반은 오류 큐, 6c) + DB CHECK·UNIQUE·수정 차단 트리거 + dbt 테스트 38개 + 수집 신선도 검사(6a) | dbt PASS=34(모델 8 + 테스트 26), 걸러 낸 레코드 2건 + 경기 기록 원본 오류 1건(3g) + 상태 칸에 날짜가 온 경기 21건(6c, 실제 원본에 계약 적용) |
 | 2. 시점 누수 | 미래 정보가 섞이지 않았나 | 기준 시각 함수(`*_known_at`), dbt 누수 테스트, Python 독립 재계산, 백테스트 예측의 DB CHECK, 경기 전 예측의 외래 키 | 독립 재계산 2,660경기 불일치 0, 누수 CHECK 위반 0 |
 | 3. 구현 동등성 | 같은 규칙을 다르게 구현해도 같은가 | dbt(SQL) ↔ Python ↔ Spark를 서로 대조 | dbt ↔ Spark: 축구 특징 12,264경기 × 18열, NBA 순위표 270행 × 9열 불일치 0 |
 | 4. 모델 성능 | 모델이 쓸 만한가 | 시간순 백테스트, 검증·시험 시즌 분리, 블록 부트스트랩 95% 구간, 확률 보정(ECE), 검증 기준 | 모든 모델 NOT_VALIDATED(시장보다 확실히 부정확) |

diff --git a/docs/walkthrough/README.md b/docs/walkthrough/README.md
@@ -28,5 +28,6 @@
 | 5e | [주간 보고서에 NBA](5e_weekly_nba.md) | 경기 전에 얼린 배당으로 하는 시장 비교, 과거 배당 없이 검증하는 방법 |
 | 6a | [NBA Gold·데이터 신선도](6a_nba_gold_freshness.md) | 여러 종목 Gold, "데이터가 바뀌었나"와 "수집이 돌았나"를 나눈 신선도 검사, Windows가 포트를 예약해 막힌 사건 |
 | 6b | [NBA Spark 대조](6b_nba_spark_reconcile.md) | 순위 규칙까지 두 엔진이 따로 구현해 칸 단위로 맞추기, 원자료에서 시작해야 독립 검증인 이유 |
+| 6c | [Kafka 계약과 오류 큐](6c_kafka_contracts.md) | JSON Schema 계약과 호환 규칙, 생산자·소비자 양쪽 검사, 오류 큐 순서 보장, 실제 원본에서 찾은 출처 오류 21건 |
 
 전체 구조는 [코드 가이드](../code_guide.md), 계획과 진행 상태는 [로드맵](../de_platform_roadmap.md), 주제별(예외 처리·메달리온·기술 스택) 정리는 [면접 준비 문서](../interview/README.md)를 함께 보세요.
